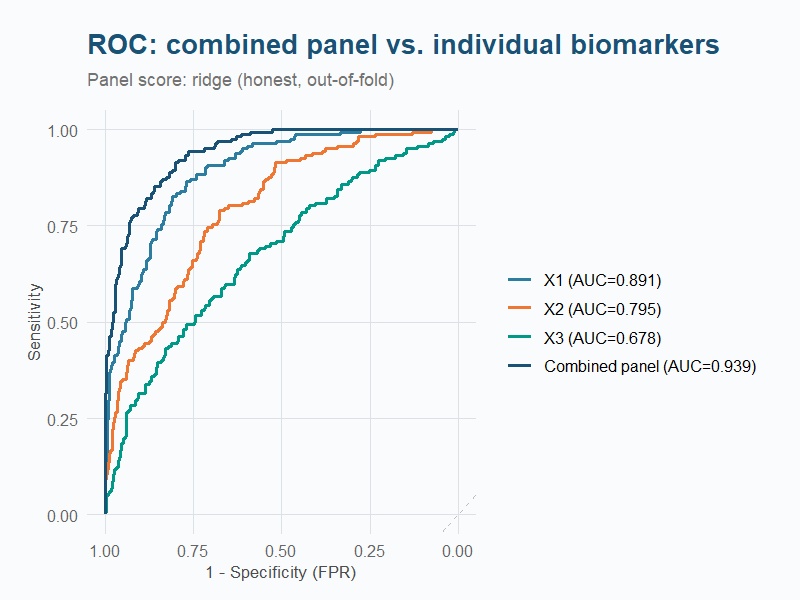
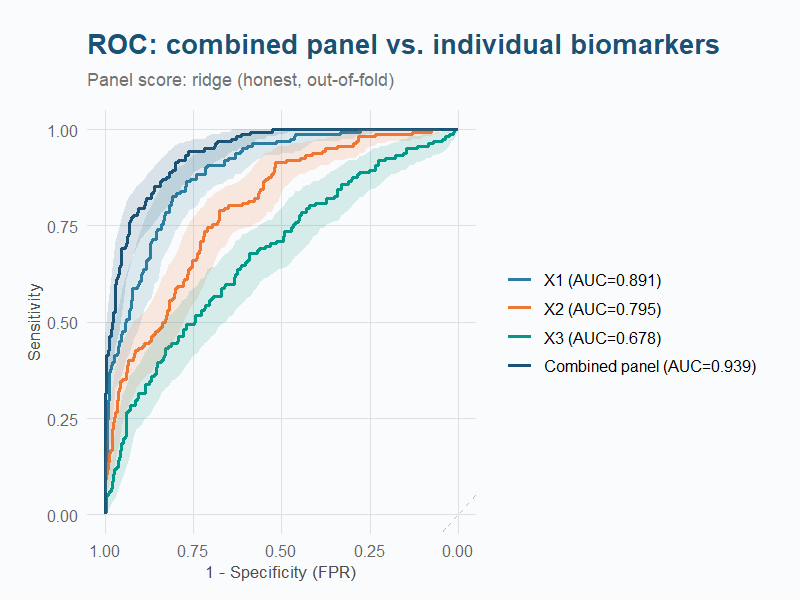
feat: show CIs on ROC plots by default, expand README/vignette visual coverage
CI defaults: plot_roc_top() and plot_roc_panel() now default to
add_ci = TRUE, matching plot_roc_smooth()'s existing default. Every
README/vignette ROC image now shows the bootstrap sensitivity ribbon.

Theme consistency: four plot functions (plot.aucmat_compare,
plot_hurdle_diagnostics, plot.aucmat_panel, plot_auc_pr) used bare
theme_minimal() instead of the shared theme_aucmat(), so their images
rendered with a plain white background instead of the package's branded
one. Standardized all four to theme_aucmat().

README: four previously code-only plot types now have a real image and a
short 'How to read it' explanation woven into their existing section --
precision-recall curves (2.6), the compare_auc() forest plot (section 3),
Hurdle-AUC diagnostics (section 6), and panel coefficients (section 7.1).
The six pre-existing plot images also gained the same explanatory
treatment. Rewrote the Vignettes section to group by Get Started/
Tutorials/Background (matching the pkgdown reorganization below) and
added the previously-missing manuscript link.

Vignette: introduction-to-aucmat.Rmd gained the same two missing plot
types (PR curves, compare_auc() visualization) so the explanation lives
in both places, not just one.

pkgdown site: split the former 'Panels, CV & Power' reference category
into a dedicated 'Multivariable Panels' section and a 'Cross-Validation &
Study Planning' section; moved roc_test into Comparisons & Stability and
[…]

Changed region(s): [[0.125, 0.21, 0.5625, 0.84]]

diff --git a/README.md b/README.md
@@ -175,18 +175,28 @@ subset(fit, auc_strength > 0.8)  # filter by discrimination
 ## 2. Visualization
 
 Every plot returns a `ggplot2` object and labels only a limited subset of
-biomarkers (via `ggrepel`) to keep wide-matrix views readable.
+biomarkers (via `ggrepel`) to keep wide-matrix views readable. Plots that
+draw a curve (ROC, panel ROC) show **bootstrap confidence ribbons by
+default** (`add_ci = TRUE`) — pass `add_ci = FALSE` if you want the faster,
+ribbon-free version.
 
 ### 2.1 Rank Plot — `plot_auc_rank()`
 
-Ordered discrimination strengths with optional DeLong CI error bars.
-Colour indicates effect direction (blue = higher in positives, red = lower).
+Ordered discrimination strengths with DeLong CI error bars. Colour indicates
+effect direction (blue = higher in positives, red = lower).
 
 ```r
 plot_auc_rank(fit, n_label = 20, show_ci = TRUE)
 ```
 
 ![Rank plot](man/figures/README-rank.png)
+
+**How to read it:** each point is one biomarker's `auc_strength`, sorted
+left-to-right from strongest to weakest discriminator. The vertical error
+bar is the DeLong 95% CI — biomarkers with tight bars near the top are
+your most *reliably* strong candidates, not just the highest point
+estimate. Colour tells you the biological direction without needing to
+check `effect_direction` in the table.
 
 ### 2.2 Volcano Plot — `plot_auc_volcano()`
 
@@ -199,6 +209,12 @@ plot_auc_volcano(fit, n_label = 20, q_cutoff = 0.05)
 
 ![Volcano plot](man/figures/README-volcano.png)
 
+**How to read it:** the x-axis is *how big* the effect is, the y-axis is
+*how sure* you are it's real. Points in the upper-right are strong and
+well-supported. A biomarker far to the right but low on the y-axis is a
+big-looking effect you can't yet trust (small sample, high variance) —
+worth a second look before it goes in a panel.
+
 ### 2.3 Forest Plot — `plot_auc_forest()`
 
 Point estimates with confidence intervals for selected biomarkers.
@@ -210,18 +226,30 @@ plot_auc_forest(fit, biomarkers = c("X1", "X2"))     # specific set
 
 ![Forest plot](man/figures/README-forest.png)
 
+**How to read it:** the dashed line at 0.5 is chance-level discrimination.
+Biomarkers whose CI crosses it aren't distinguishable from noise at this
+sample size. This is the plot to screenshot for a talk or paper figure —
+it answers "how good, and how sure" for a hand-picked shortlist in one
+glance.
+
 ### 2.4 ROC Curves — `plot_roc_top()`
 
-Empirical ROC curves for deliberately selected biomarkers. Supports optional
-bootstrap CI ribbons.
+Empirical ROC curves for deliberately selected biomarkers, with bootstrap
+CI ribbons shown by default.
 
 ```r
-plot_roc_top(fit, X = X, y = y)                            # top 6 by default
+plot_roc_top(fit, X = X, y = y)                            # top 6, with CI ribbons
 plot_roc_top(fit, X = X, y = y, biomarkers = c("X1", "X2"))
-plot_roc_top(fit, X = X, y = y, add_ci = TRUE, boot_n = 500)  # with CI ribbons
+plot_roc_top(fit, X = X, y = y, add_ci = FALSE)             # faster, no ribbons
 ```
 
 ![ROC curves](man/figures/README-roc.png)
+
+**How to read it:** a curve that hugs the top-left corner discriminates
+well; the diagonal is chance. The shaded ribbon is the bootstrap
+sensitivity CI at each specificity — where ribbons for two biomarkers
+don't overlap, that's a visual cue (not a formal test) that they likely
+differ; use `compare_auc()` for the actual hypothesis test.
 
 ### 2.5 Stability Plot — `plot_auc_stability()`
 
@@ -232,6 +260,27 @@ plot_auc_stability(stab, n_label = 20)
 ```
 
 ![Stability plot](man/figures/README-stability.png)
+
+**How to read it:** each biomarker's rank position is resampled hundreds
+of times; the point is the median rank, the bar is the interquartile
+range. A biomarker with a tight bar near rank 1 is a dependable top
+candidate. A wide bar means its ranking is sensitive to which subjects
+happened to be sampled — a warning sign before committing it to a panel
+or a follow-up study.
+
+### 2.6 Precision-Recall Curves — `plot_auc_pr()`
+
+```r
+plot_auc_pr(X, y, biomarkers = c("X1", "X2", "X3"))
+```
+
+![Precision-Recall curves](man/figures/README-pr.png)
+
+**How to read it:** when positives are rare, ROC curves can look
+deceptively good — PR curves don't. The dashed line marks the prevalence
+(precision of a random classifier); a useful biomarker's curve sits well
+above it. Prefer this view over ROC whenever your outcome is imbalanced
+(prevalence well below 0.5).
 
 ---
 
@@ -281,6 +330,23 @@ compare_auc(fit, X, y, reference = "X1",
 
 When `top_n` selects and tests on the same data, the result carries
 `selection_status = "same_data"` and a warning that inference is exploratory.
+
+### Visualizing Comparisons — `plot()`
+
+`compare_auc()`'s result has its own `plot()` method:
+
+```r
+cmp <- compare_auc(fit, X, y, reference = "X1")
+plot(cmp)
+```
+
+![Comparison forest plot](man/figures/README-compare.png)
+
+**How to read it:** each row is one pairwise `auc_diff` (reference minus
+the other biomarker) with its CI. The dashed line at 0 is "no difference."
+A CI that doesn't cross it is a statistically supported difference at your
+chosen `alternative`/`hypothesis`; one that does cross it means you can't
+yet distinguish the two biomarkers on this data.
 
 ### Multiplicity Adjustment
 
@@ -359,6 +425,17 @@ fit_hur <- hurdle_auc(as.matrix(sim$data[, 1:3]), sim$data$truth)
 plot_hurdle_diagnostics(fit_hur)
 ```
 
+![Hurdle-AUC diagnostics](man/figures/README-hurdle.png)
+
+**How to read it:** each point is one biomarker. The x-axis is how well
+its *zero/nonzero pattern* discriminates class; the y-axis is how well its
+*magnitude, given it's nonzero* discriminates class; point size is the
+overall zero rate; colour is the combined Hurdle AUC. A biomarker sitting
+far right but near the dashed 0.5 line on the y-axis (like the example's
+weaker markers) is getting essentially all of its signal from *whether*
+it's expressed, not *how much* — exactly the story a standard AUC would
+have missed entirely.
+
 | Metric | Standard AUC | Hurdle AUC | Why |
 |--------|:-----------:|:----------:|-----|
 | Biomarker 1 | ~0.53 | **~0.90** | 55%→25% zero rate shift + strong nonzero signal |
@@ -398,6 +475,15 @@ print(panel_ridge)
 plot(panel_ridge)   # coefficient dot-plot
 ```
 
+![Panel coefficients](man/figures/README-panel-coef.png)
+
+**How to read it:** each point is one biomarker's fitted weight in the
+combined score. Blue (positive) means higher values push the score toward
+the positive class; red (negative) means the opposite. Distance from the
+dashed zero line is how much that biomarker contributes once the others
+are accounted for — not the same as its own solo `auc_strength`, since
+correlated biomarkers can trade weight with each other.
+
 `"su_liu"` and `"unweighted"` add no dependency and no tuning step, which
 makes them useful sanity checks against the penalized/fitted methods —
 if a heavily-tuned ridge panel barely beats the parameter-free unweighted
@@ -422,16 +508,20 @@ print(panel_ridge)
 ### 7.3 Visualizing the panel
 
 ```r
-plot_roc_panel(panel_ridge, X, y)                      # panel vs. top 3 components
-plot_roc_panel(panel_ridge, X, y, biomarkers = top)     # panel vs. a specific set
-plot_roc_panel(panel_ridge, X, y, add_ci = TRUE)        # + bootstrap CI ribbons
+plot_roc_panel(panel_ridge, X, y)                       # panel vs. top 3 components, with CI ribbons
+plot_roc_panel(panel_ridge, X, y, biomarkers = top)      # panel vs. a specific set
+plot_roc_panel(panel_ridge, X, y, add_ci = FALSE)        # faster, no ribbons
 ```
 
 ![Panel ROC plot](man/figures/README-panel-roc.png)
 
-By default the panel's *honest* out-of-fold score is plotted (falling back
-to the in-sample score, with a warning, only if the panel was fit with
-`n_folds = 0`).
+**How to read it:** same ROC-curve reading as the ROC Curves plot in
+section 2 above, but now the combined panel (dark curve) is drawn on top
+of its individual components for direct comparison. By default the panel's
+*honest* out-of-fold score is plotted (falling back to the in-sample
+score, with a warning, only if the panel was fit with `n_folds = 0`) — the
+curve you see is genuinely how the panel would perform on new subjects,
+not an optimistic in-sample view.
 
 ### 7.4 Does combining actually help?
 
@@ -732,10 +822,19 @@ compares to the existing ecosystem:
 
 ## Vignettes
 
-- [Introduction to aucmat](https://vanhungtran.github.io/aucmat/articles/introduction-to-aucmat.html) — screening, visualization, comparisons, stability, missing data
+**Get started**
+
+- [Introduction to aucmat](https://vanhungtran.github.io/aucmat/articles/introduction-to-aucmat.html) — screening, every visualization (rank, volcano, forest, ROC, PR, stability), comparisons, global test, stability, missing data
+
+**Tutorials**
+
 - [Simulating Biomarker Data](https://vanhungtran.github.io/aucmat/articles/simulating-biomarker-data.html) — mathematical foundations and comparison of all simulation engines
 - [Real-Data Application: BeatMG Proteomics](https://vanhungtran.github.io/aucmat/articles/real-data-beatmg.html) — screening real Olink proteomics from a randomized rituximab trial, with bootstrap validation
-- [Practical Biomarker Screening](https://vanhungtran.github.io/aucmat/articles/practical-screening.html) — full simulated workflow from screening through panels and power analysis
+- [Practical Biomarker Screening](https://vanhungtran.github.io/aucmat/articles/practical-screening.html) — full simulated workflow from screening through multivariable panels (all six combination methods) and power analysis
+
+**Background**
+
+- [aucmat: Matrix-First ROC Analysis](https://vanhungtran.github.io/aucmat/articles/aucmat-manuscript.html) — the methods paper: statistical foundations, benchmarking, and comparison with the wider R ecosystem
 
 ## Online Documentation
 

diff --git a/NEWS.md b/NEWS.md
@@ -40,6 +40,9 @@
 - `fit_auc_panel()`'s `fitted_model` component is now a list of
   `coefficients`/`means`/`sds` (used by `predict.aucmat_panel()`) instead of
   the raw `glmnet`/`glm` fit object, for all methods uniformly.
+- `plot_roc_top()` and `plot_roc_panel()` now default to `add_ci = TRUE`
+  (bootstrap confidence ribbons shown), matching `plot_roc_smooth()`'s
+  existing default. Pass `add_ci = FALSE` for a faster, ribbon-free plot.
 
 # aucmat 0.1.0
 